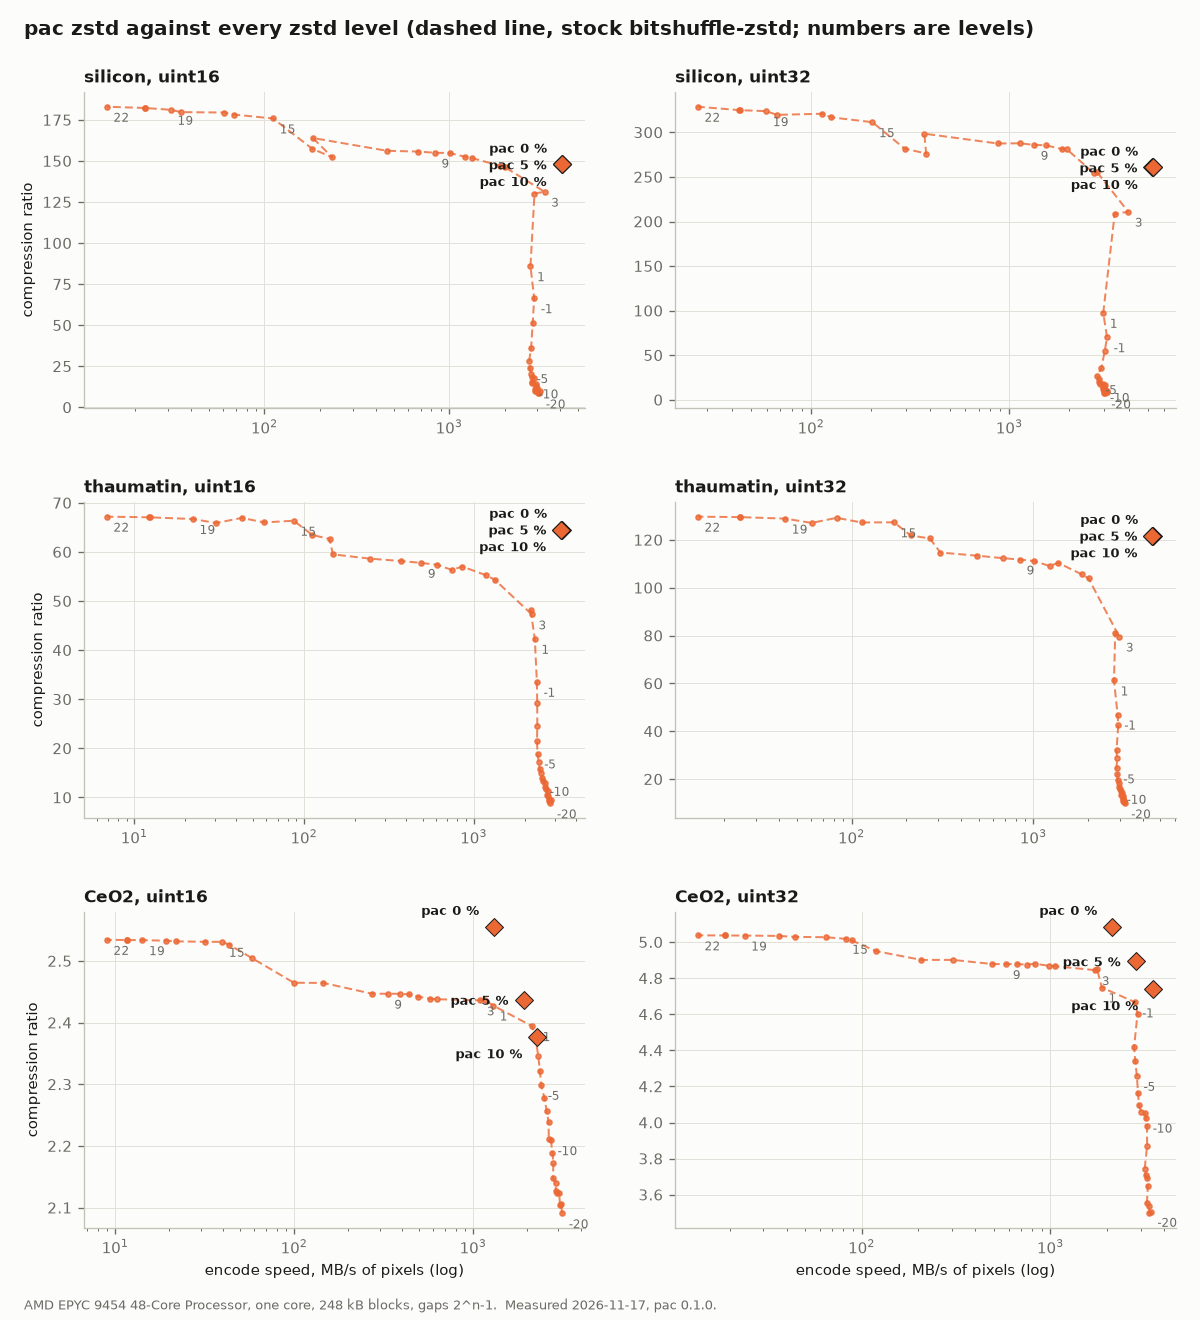
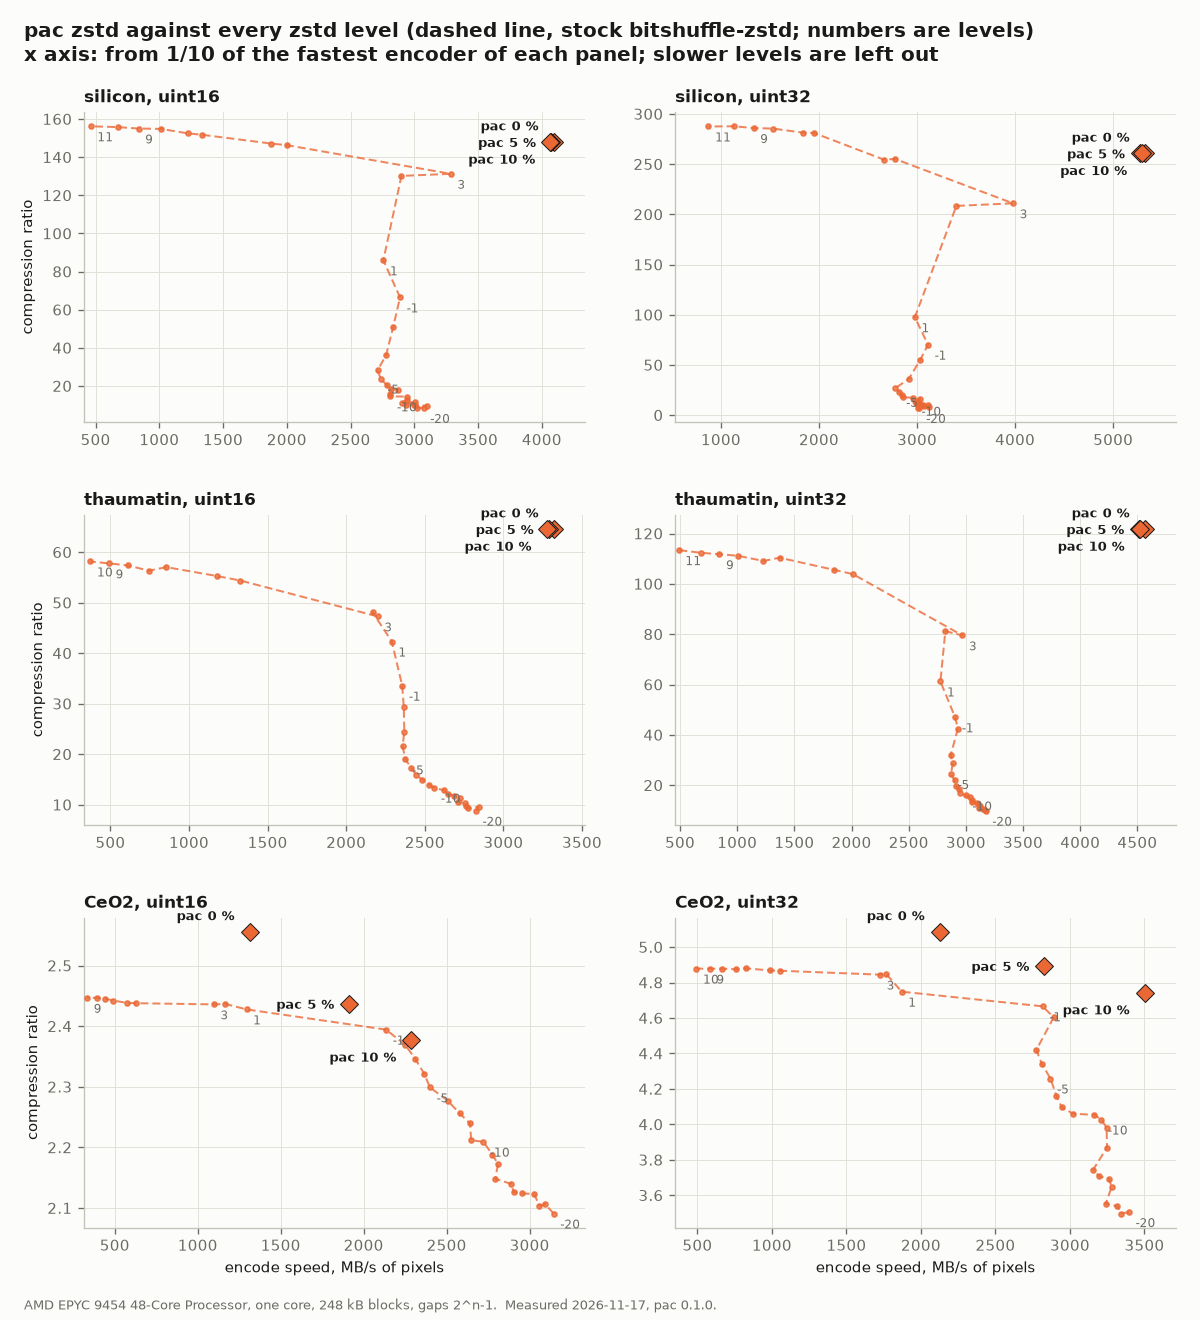
levels plot: linear speed axis, from 1/10 of the fastest encoder

diff --git a/bench/plot_levels.py b/bench/plot_levels.py
@@ -34,27 +34,32 @@ for i, row in enumerate(ROWS):
         for sp in ("top", "right"):
             ax.spines[sp].set_visible(False)
         rs = R["cases"]["%s %s" % (row, col)]["results"]
+        # x: linear, from 1/10 of the fastest encoder of the panel (a 10x slowdown) to the fastest
+        top = max(r["enc_mbs"] for r in rs)
+        rs = [r for r in rs if r["enc_mbs"] >= top / 10]
         st = [r for r in rs if r["encoder"] == "stock zstd"]
+        slowest = min(st, key=lambda r: r["enc_mbs"])["level"]
         ax.plot([r["enc_mbs"] for r in st], [r["ratio"] for r in st], "o", color=ORANGE, lw=1.2, ms=3,
                 alpha=0.8, ls=(0, (4, 2)), zorder=3)
         for r in st:
-            if r["level"] in LABELS:
+            if r["level"] in LABELS or r["level"] == slowest:
                 ax.annotate(str(r["level"]), (r["enc_mbs"], r["ratio"]), xytext=(4, -9), textcoords="offset points",
                             fontsize=7, color=MUTED)
         for r in [r for r in rs if r["encoder"] == "pac zstd"]:
             ax.plot(r["enc_mbs"], r["ratio"], "D", color=ORANGE, ms=8, mec=INK, mew=0.6, zorder=5)
             ax.annotate("pac %d %%" % r["raw_percent"], (r["enc_mbs"], r["ratio"]), xytext=(-9, {0: 7, 5: -3, 10: -13}[r["raw_percent"]]),
                         textcoords="offset points", fontsize=8, fontweight="bold", ha="right", zorder=6)
-        ax.set_xscale("log")
+        ax.set_xlim(top / 10, top * 1.06)
         ax.set_title("%s, %s" % (row, col), loc="left", fontsize=10, fontweight="bold")
         if i == 2:
-            ax.set_xlabel("encode speed, MB/s of pixels (log)")
+            ax.set_xlabel("encode speed, MB/s of pixels")
         if j == 0:
             ax.set_ylabel("compression ratio")
-fig.suptitle("pac zstd against every zstd level (dashed line, stock bitshuffle-zstd; numbers are levels)",
+fig.suptitle("pac zstd against every zstd level (dashed line, stock bitshuffle-zstd; numbers are levels)\n"
+             "x axis: from 1/10 of the fastest encoder of each panel; slower levels are left out",
              x=0.02, y=0.985, ha="left", fontsize=12, fontweight="bold")
 fig.text(0.02, 0.008, note, fontsize=7.5, color=MUTED)
-fig.subplots_adjust(left=0.07, right=0.98, top=0.93, bottom=0.07, hspace=0.3, wspace=0.18)
+fig.subplots_adjust(left=0.07, right=0.98, top=0.915, bottom=0.07, hspace=0.3, wspace=0.18)
 out = os.path.join(args.out, "levels.png")
 fig.savefig(out, dpi=120, facecolor=SURF)
 print("wrote", out)

diff --git a/README.md b/README.md
@@ -27,7 +27,8 @@ on sparse ones it is faster than every level.
 
 The dashed line is stock bitshuffle-zstd (kcb transpose, then `ZSTD_compressCCtx`) at every level from
 -20 to 22, 248 kB blocks; the diamonds are pac zstd with `pac_set_raw_literals` at 0, 5 and 10 %.  One
-core, detector gaps set to 2^n-1.  On the dense CeO2 frames pac 0 % is both smaller and faster than
+core, detector gaps set to 2^n-1.  The speed axis is linear and starts at 1/10 of the fastest
+encoder in each panel; the slower levels are in the table.  On the dense CeO2 frames pac 0 % is both smaller and faster than
 the highest levels: ratio 2.56 against 2.53 for levels 15 to 22 (uint16), at 1313 MB/s
 against 9 to 40 MB/s.  On the sparse frames (silicon, thaumatin) it is faster than every level, 3300
 to 5300 MB/s, but not the smallest: it sits near levels 3 to 9, and level 22 is 4 to 21 % smaller at
